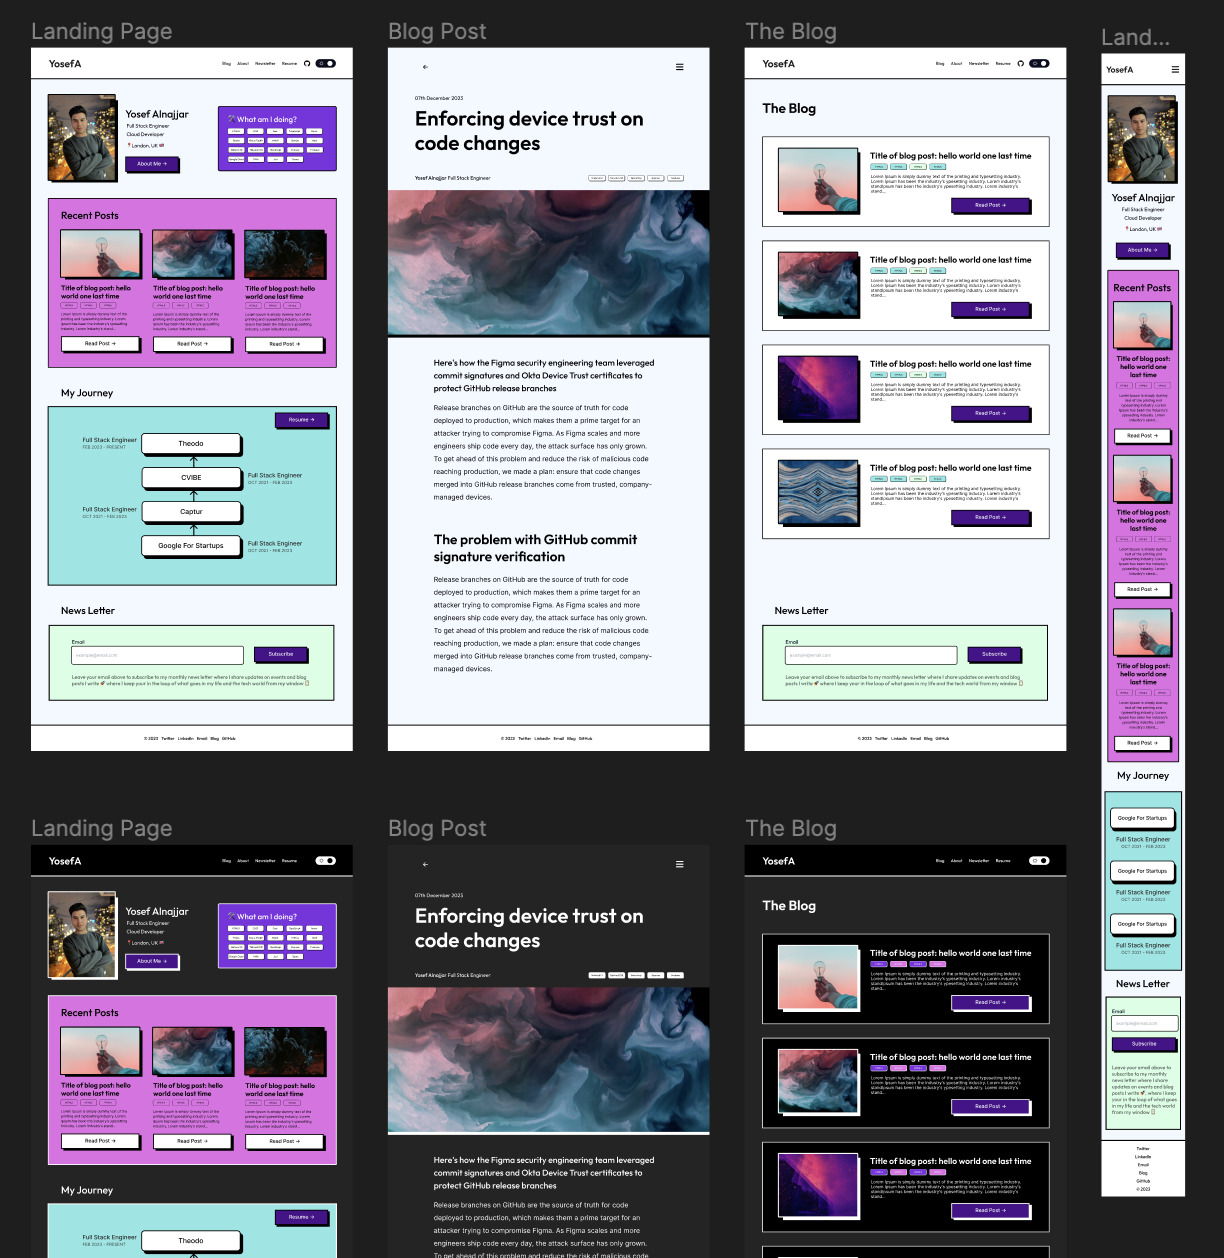
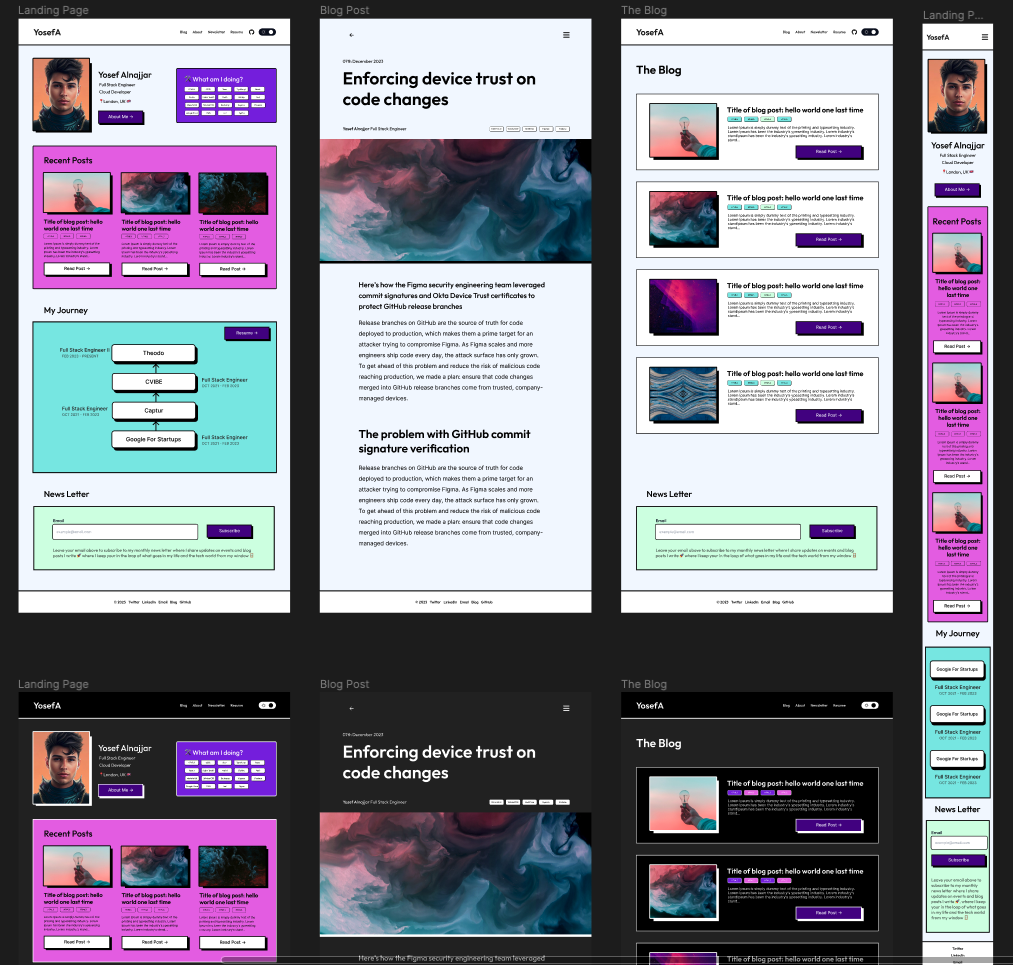
feat(blog): add new blog post and implement improvements

diff --git a/app/MyJourney.tsx b/app/MyJourney.tsx
@@ -17,7 +17,7 @@ export const MyJourney = () => (
                 {experiencesList.map((experience, index, array) => (
                     <div className="flex flex-col xl:grid xl:grid-cols-3 xl:justify-stretch xl:items-center w-full mt-12 text-center xl:text-left" key={experience.companyName}>
                         <div className={`order-2 mt-10 xl:mt-0 ${index % 2 === 0 ? 'xl:order-1' : 'xl:order-3  justify-self-end'}`}>
-                            <p className="text-black-light text-2xl xl:text-3xl font-medium font-secondary capitalize leading-[23px]">{experience.jobTitle}</p>
+                            <p className="text-black-light text-2xl xl:text-[28px] font-medium font-secondary capitalize leading-[23px]">{experience.jobTitle}</p>
                             <p className="text-black-light text-opacity-70 text-xl uppercase font-medium font-secondary leading-[23px] mt-3">{experience.dates}</p>
                         </div>
 

diff --git a/app/blog/[slug]/page.tsx b/app/blog/[slug]/page.tsx
@@ -58,7 +58,7 @@ export default function Post({ params }: any) {
         <div className="py-9">
             <div className="px-6 md:px-20 lg:px-32 flex flex-col">
                 <p className="text-black dark:text-white text-lg lg:text-2xl font-normal font-primary mt-6">{format(props.frontMatter.date, 'do MMMM YYY')}</p>
-                <h1 className="text-black dark:text-white text-3xl lg:text-6xl xl:text-8xl font-semibold font-primary mt-6">{props.frontMatter.title}</h1>
+                <h1 className="text-black dark:text-white text-3xl lg:text-6xl xl:text-8xl font-semibold font-primary mt-6 capitalize">{props.frontMatter.title}</h1>
                 <div className="flex flex-col md:flex-row md:justify-between md:items-baseline mt-6 lg:mt-12 xl:mt-20">
                     <p>
                         <span className="text-black dark:text-white text-base lg:text-2xl font-medium font-primary ">Yosef Alnajjar</span>

diff --git a/app/components/PostCard/index.tsx b/app/components/PostCard/index.tsx
@@ -29,7 +29,7 @@ export const PostCard = ({ title, imagePath, tagsList, description, variant = 'v
                 </ImageFrame>
             </div>
             <div className="flex flex-col w-full text-center lg:text-left">
-                <p className={`heading-3 mt-8 ${variant === 'vertical' ? 'dark:text-black' : ''}`}>{title}</p>
+                <p className={`heading-3 mt-8 capitalize ${variant === 'vertical' ? 'dark:text-black' : ''}`}>{title}</p>
                 <div className="mt-2 flex justify-center lg:self-start">
                     {tagsList.slice(0, 3).map(tag => <Tag key={tag} variant="outlined" className={`first:md:ml-0 ${variant === 'horizontal' ? 'dark:border-white text-black dark:text-white' : ''}`}>{tag}</Tag>)}
                 </div>

diff --git a/app/components/Footer/index.tsx b/app/components/Footer/index.tsx
@@ -5,7 +5,7 @@ export const Footer = () => (
         <div className="w-full border-t border-4 border-black dark:border-white" />
         <div className="bg-white dark:bg-black py-12 px-20">
             <div className="flex flex-col text-center md:text-left md:flex-row space-y-5 md:space-y-0 md:space-x-8 items-center font-primary font-medium justify-center dark:text-white">
-                <p>© 2023</p>
+                <p>© 2024</p>
                 <a href="https://twitter.com/YosefAnajjar" target="_blank">Twitter</a>
                 <a href="https://www.linkedin.com/in/yosefanajjar/" target="_blank">Linkedin</a>
                 <a href="https://github.com/yosefanajjar">GitHub</a>

diff --git a/app/components/Tag/index.tsx b/app/components/Tag/index.tsx
@@ -7,7 +7,7 @@ interface TagProps {
 
 export const Tag = ({ children, variant, size = 'regular', className }: TagProps) => {
     const variantClasses = variant === 'outlined' ? ' bg-transparent' : 'bg-white';
-    const sizeClasses = size === 'large' ? 'w-full h-[100px] rounded-2xl border-4' : 'min-w-[77px] h-[26px] mt-4 ml-4 rounded-[5px] border border-black'
+    const sizeClasses = size === 'large' ? 'w-full h-[100px] rounded-2xl border-4' : 'w-auto h-[26px] mt-4 ml-4 rounded-[5px] border border-black px-5'
 
     return (
         <div className={`${sizeClasses} ${variantClasses}  md:px-5 flex items-center justify-center relative ${className}`}>

diff --git a/app/constants/experiencesList.ts b/app/constants/experiencesList.ts
@@ -1,6 +1,6 @@
 export const experiencesList = [
   {
-    jobTitle: 'Full Stack Engineer',
+    jobTitle: 'Full Stack Engineer II',
     companyName: 'Theodo',
     dates: 'Feb 2023 - Present',
   },
